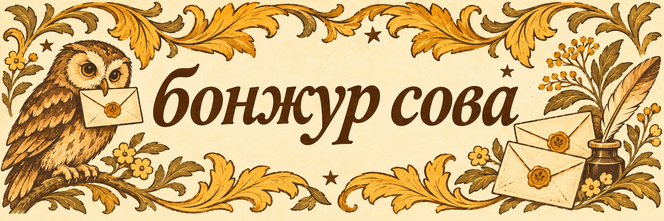
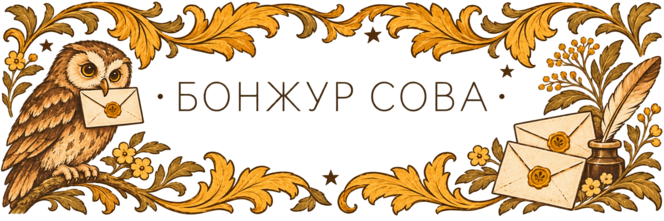
Refine newsletter section headings with thin uppercase type and transparency

diff --git a/assets/hufflepuff-news/README.md b/assets/hufflepuff-news/README.md
@@ -18,7 +18,9 @@
 - bbcode.txt — полный шаблон с Lorem ipsum.
 - preview.html — автономный предварительный просмотр; откройте его рядом с изображениями.
 
-Заголовки разделов: 664 × 221 пиксель. Ширина поста: 720 пикселей.
+Заголовки разделов: 664 × 221 пиксель, прозрачный фон PNG с альфа-каналом.
+Надписи выполнены тонким прямым шрифтом, прописными буквами, с точками по сторонам.
+Ширина поста: 720 пикселей. Прямые ссылки и BB-код сохранены.
 Измените номер выпуска и замените Lorem ipsum своим текстом.
 Любой раздел можно удалить целиком: от строки с его изображением до конца следующего текстового блока.
 
